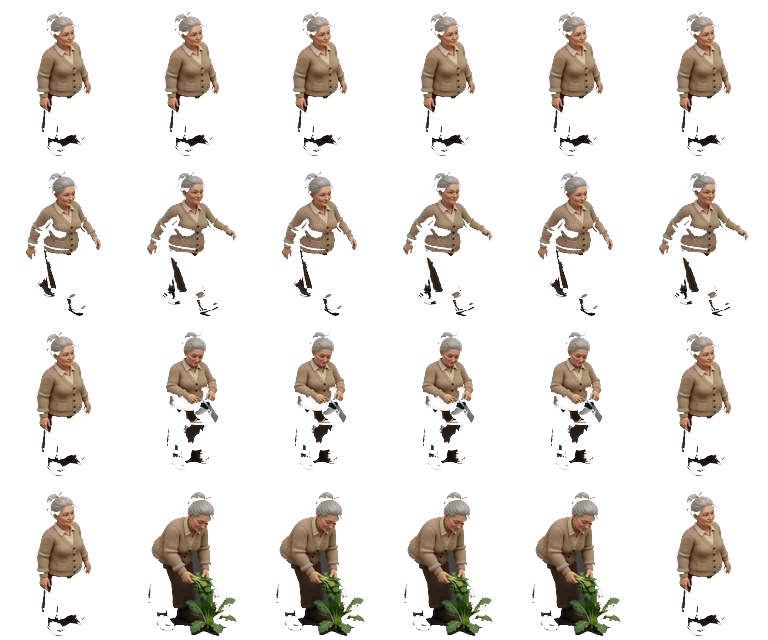
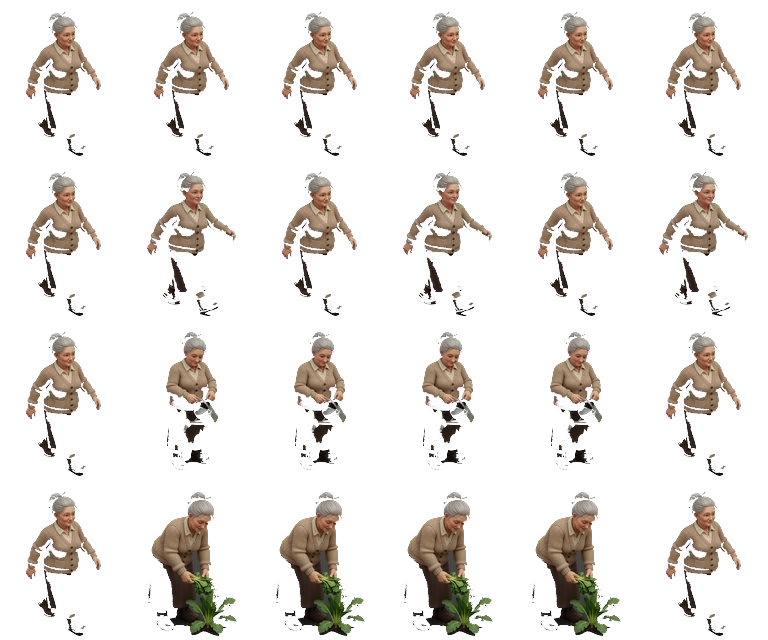
农场：待激活账号不进邻居世界/不发迎新礼包，积分面板改「待领取」口径，封顶时退还农场币

diff --git a/src/js/firebase-points.js b/src/js/firebase-points.js
@@ -35,10 +35,15 @@
   const BACKFILL_CAP = 100;
 
   // Limited-time "Welcome to the game" bonus for store members on their
-  // FIRST login to the farm. Awarded as 3,000 farm coins (equivalent to
-  // 300 EP via the 10:1 exchange, ≈ $0.30 real cost). Member-doc-scoped
-  // flag (gameSignupBonusGivenAt) prevents re-claim across devices and
-  // localStorage wipes.
+  // FIRST login to the farm. Awarded as 3,000 farm coins.
+  //
+  // 💰 成本（2026-08-20 订正，原注释写的 $0.30 **差了 10 倍**）：
+  //    3,000 农场币 → 10:1 兑换 → 300 超市积分。而 500 积分换「满$50 减$5」，
+  //    所以 1 积分 ≈ 面值 1 分钱 → 300 积分 ≈ **$3.00**，不是 $0.30。
+  //    定任何新奖励前都会引用这个换算，别再把它当 $0.30 用。
+  //
+  // Member-doc-scoped flag (gameSignupBonusGivenAt) prevents re-claim across
+  // devices and localStorage wipes.
   const GAME_SIGNUP_BONUS_COINS = 3000;
   const GAME_SIGNUP_BONUS_END = '2026-08-31';
 
@@ -137,7 +142,21 @@
         });
         _applyServerResponseToLocal(resp);
         _notePointsOutcome(0, true);
-        return { synced: true, eventId, new_balance: resp.new_balance };
+        // 待激活账号：把最新的待领取数额同步到本地 memberDoc，
+        // 否则积分面板显示的是上次拉取时的旧数。
+        if (resp.pending && Farm.fbAuth && Farm.fbAuth.memberDoc) {
+          Farm.fbAuth.memberDoc.pendingPoints = Number(resp.pendingPoints || 0);
+          if (resp.pendingCap) Farm.fbAuth.memberDoc.pendingCap = Number(resp.pendingCap);
+        }
+        /* credited 是**实际记上的分数**（待激活账号有总额封顶，可能少于请求值，
+           甚至是 0）。调用方靠它退还没换到分的那部分农场币 ——
+           照扣币不给分＝偷东西（spec 不变量 5）。
+           会员那条路不下发这个字段，undefined 时按「全额记上」处理，行为不变。 */
+        return {
+          synced: true, eventId, new_balance: resp.new_balance,
+          credited: (typeof resp.credited === 'number') ? resp.credited : amount,
+          pending: !!resp.pending,
+        };
       } catch (e) {
         _notePointsOutcome(e.code, false);
         // 429 = daily cap, 422 = validation, 401/403/404 = auth/endpoint → don't queue (would just fail again)
@@ -269,6 +288,18 @@
       const today = Farm.state.getDateString();
       if (today > GAME_SIGNUP_BONUS_END) return;
 
+      /* 🔒 **待激活账号不发**（2026-08-20）。他们是邮箱注册、还没到店激活的人：
+         正好满足开屏那句「登录 + 留邮箱」，不显式排除就是给从没来过店的人
+         每人白送 3000 币（面值 ≈$3，见 spec §5.6）。
+         ⚠ 靠「没有会员档所以事务返回 false」隐式挡住是不够的 —— 那是**静默**
+            不发，而开屏白纸黑字承诺过。承诺了不兑现又不解释，顾客只会觉得
+            这游戏骗人（本函数下面 no_email 那一段就是为这个写的）。
+            所以这里明说：激活之后就送。 */
+      if (Farm.fbAuth && Farm.fbAuth.memberDoc && Farm.fbAuth.memberDoc._pending) {
+        setTimeout(() => this._showBonusNeedsActivationModal(GAME_SIGNUP_BONUS_COINS), 600);
+        return;
+      }
+
       /* 🔒 必须用 memberDocId()，不是 Auth UID（2026-08-15 审阅第 7 条）
          店内会员文档 id 常常是 ru_*，与 Auth UID 不同 —— 拿 uid 去取文档多半不存在，
          事务直接返回 false，于是**真会员反而领不到**开屏承诺的 3000 农场币，
@@ -315,6 +346,26 @@
 
       // Short delay so any login modal closes first
       setTimeout(() => this._showSignupBonusModal(GAME_SIGNUP_BONUS_COINS), 400);
+    },
+
+    /* 待激活账号：礼包等激活。说清楚「什么时候能拿到」，不是一句「暂不可领」。
+       这一屏同时是把人推进店门的钩子 —— 他手里已经有个具体的东西在等他。 */
+    _showBonusNeedsActivationModal(amount) {
+      const en = Farm.state.data.language === 'en';
+      Farm.ui.showModal(`
+        <h2 class="modal-title">${en ? 'Your gift is waiting' : '礼包给你留着'}</h2>
+        <p style="text-align:center;font-size:15px;line-height:1.7;margin:14px 0;">
+          ${en
+            ? `Give us your phone number next time you shop and we'll set up your member card on the spot — <b>${amount.toLocaleString()} farm coins</b> and the store points you've earned land right away.`
+            : `下次来店里报一下手机号，收银员当场帮你办好会员卡 —— <b>${amount.toLocaleString()} 农场币</b>和你攒下的超市积分立刻到账。`}
+        </p>
+        <p style="text-align:center;font-size:12.5px;color:var(--warm-text-soft);line-height:1.6;">
+          133-412 Willowgrove Square<br>${en ? 'Mon–Sat 10am–6:30pm' : '周一至周六 10am–6:30pm'}
+        </p>
+        <button class="btn" style="width:100%;margin-top:14px;" onclick="Farm.ui.hideModal()">
+          ${en ? 'Got it' : '知道了'}
+        </button>
+      `);
     },
 
     /* 有资格但没留邮箱 —— 告诉他差一步，别静默不发。

diff --git a/src/js/farmer.js b/src/js/farmer.js
@@ -191,7 +191,49 @@
   }
 
   function plotPos(iso, plotIdx) {
-    return { gx: iso._plotGX(plotIdx) + 0.15, gy: iso._plotGY(plotIdx) + 0.35 };
+    const gx = iso._plotGX(plotIdx), gy = iso._plotGY(plotIdx);
+    const dirs = [[0, 1], [1, 1], [-1, 1], [1, 0], [-1, 0], [0, -1]];
+    for (let i = 0; i < dirs.length; i++) {
+      const x = gx + dirs[i][0], y = gy + dirs[i][1];
+      if (cellWalkable(iso, x, y)) return { gx: x, gy: y + 0.12 };
+    }
+    return { gx: gx + 0.2, gy: gy + 0.9 };
+  }
+
+  function enqueueWaterAll(startIdx) {
+    const iso = Farm.isoView;
+    if (!iso || (Farm.state && Farm.state._visitLock)) return false;
+    const plots = (Farm.state.data && Farm.state.data.plots) || [];
+    const wet = [];
+    for (let i = 0; i < plots.length; i++) {
+      if (plots[i] && Farm.tending && Farm.tending.canWater && Farm.tending.canWater(plots[i])) wet.push(i);
+    }
+    if (!wet.length) return false;
+    const dist = (a, b) => {
+      const dx = iso._plotGX(a) - iso._plotGX(b);
+      const dy = iso._plotGY(a) - iso._plotGY(b);
+      return dx * dx + dy * dy;
+    };
+    const left = wet.slice();
+    const order = [];
+    let cur = (startIdx != null && left.indexOf(startIdx) >= 0) ? startIdx : left[0];
+    while (left.length) {
+      const at = left.indexOf(cur);
+      if (at >= 0) left.splice(at, 1);
+      order.push(cur);
+      if (!left.length) break;
+      let best = left[0], bd = Infinity;
+      for (let k = 0; k < left.length; k++) {
+        const d = dist(cur, left[k]);
+        if (d < bd) { bd = d; best = left[k]; }
+      }
+      cur = best;
+    }
+    let n = 0;
+    for (let i = 0; i < order.length; i++) {
+      if (enqueue(order[i], 'water')) n++;
+    }
+    return n > 0;
   }
 
   function finishJob(iso) {
@@ -206,6 +248,9 @@
       if (Farm.farm && Farm.farm.harvestPlot) {
         const ev = iso._fakeEvt ? iso._fakeEvt(iso._plotGX(job.plotIdx), iso._plotGY(job.plotIdx)) : null;
         Farm.farm.harvestPlot(job.plotIdx, ev);
+      }
+      if (Farm.state && Farm.state.isWarehouseFull && Farm.state.isWarehouseFull()) {
+        A.queue = A.queue.filter((j) => j.kind !== 'harvest');
       }
     } else if (job.kind === 'water') {
       if (Farm.tending && Farm.tending.waterPlot) Farm.tending.waterPlot(job.plotIdx);
@@ -276,6 +321,8 @@
       const p = plotPos(iso, A.job.plotIdx);
       if (A.anim === 'walk') {
         if (moveToward(dt, p.gx, p.gy)) {
+          const pgx = iso._plotGX(A.job.plotIdx);
+          A.face = pgx >= A.gx ? 'r' : 'l';
           A.anim = A.job.kind;
           A.frameT = 0;
         }
@@ -317,7 +364,7 @@
     const im = sheet(look);
     const th = iso._th();
     const spec = specOf(look);
-    const h = th * (spec.child ? 1.15 : 1.55);
+    const h = th * (spec.child ? 1.45 : 2.05);
     if (im && im.width) {
       const cw = im.width / SHEET_COLS, ch = im.height / SHEET_ROWS;
       const row = ANIMS[anim] || 0;
@@ -408,6 +455,7 @@
     applyLook: applyLook,
     enqueue: enqueue,
     enqueueHarvestAll: enqueueHarvestAll,
+    enqueueWaterAll: enqueueWaterAll,
     tick: tick,
     depthDraw: depthDraw,
     drawGuest: drawGuest,

diff --git a/src/js/firebase-game-sync.js b/src/js/firebase-game-sync.js
@@ -90,6 +90,13 @@
         // can still browse the community (unlike visibleToNeighbors=false,
         // which also blinds the owner). Set via the owner toggle in settings.
         excludeFromRanking: !!(s.excludeFromRanking && Farm.fbAuth && Farm.fbAuth.isStoreOwner && Farm.fbAuth.isStoreOwner()),
+        /* 🔒 待激活账号（邮箱注册、还没到店激活）不进邻居世界（2026-08-20）。
+           串门/互偷/点赞的每日上限都是**按账号**算的，而邮箱注册没有成本 ——
+           一个人开五个小号刷自己的大号，几分钟的事。激活要报手机号，
+           手机号是有限的，那才是真正的闸。
+           取值口径与 excludeFromRanking 一样：写在公开档上，各处池子统一过滤。 */
+        pendingActivation: !!(Farm.fbAuth && Farm.fbAuth.memberDoc
+                              && Farm.fbAuth.memberDoc._pending),
         // Claimed limited-time promos (per-account guard against local reset).
         promoClaims: s.promoClaims || {},
         // Farm snapshot for real-member visits + stealing (spec 2026-06-11):
@@ -450,6 +457,7 @@
           if (d.id === meUid) return;
           if (stats.visibleToNeighbors === false) return;
           if (stats.excludeFromRanking === true) return;
+          if (stats.pendingActivation === true) return;   // 待激活账号不进邻居世界
           if (!stats.level) return;
           pool.push({ uid: d.id, doc: data });
         });
@@ -728,7 +736,8 @@
           const data = d.data();
           const stats = data.gameStats || {};
           if (stats.visibleToNeighbors === false) return;
-          if (stats.excludeFromRanking === true) return;  // store owner out of rankings
+          if (stats.excludeFromRanking === true) return;
+          if (stats.pendingActivation === true) return;   // 待激活账号不进邻居世界  // store owner out of rankings
           if (!stats.level) return;
           // Weekly board: only count players whose counter is for THIS week.
           if (metric === 'weekly') {
@@ -782,6 +791,7 @@
           const s = d.data().gameStats || {};
           if (s.visibleToNeighbors === false) return;
           if (s.excludeFromRanking === true) return;  // store owner not counted above me
+          if (s.pendingActivation === true) return;   // 待激活账号不参与排名
           if (metric === 'weekly' && s.weekId !== curWeek) return;
           above++;
         });

diff --git a/src/js/neighbors.js b/src/js/neighbors.js
@@ -204,6 +204,38 @@
       const visited = Farm.state.data.dailyClaims.neighborsVisited || [];
       const likesRemaining = Farm.fbGameSync ? Farm.fbGameSync.likesRemaining() : 0;
 
+      /* 🔒 待激活账号（邮箱注册、还没到店激活）先不开社交（2026-08-20）。
+         串门/互偷/点赞的每日上限都是按账号算的，而邮箱注册零成本 —— 一个人
+         开五个小号刷自己的大号是几分钟的事。激活要报手机号，那才是真的闸。
+         ⚠ 文案照实说「激活之后就能串门」，不是「无权限」。这是又一个把人
+            推进店门的理由，不是惩罚。 */
+      if (Farm.fbAuth && Farm.fbAuth.memberDoc && Farm.fbAuth.memberDoc._pending) {
+        const en = lang === 'en';
+        Farm.ui.showModal(`
+          <h2 class="modal-title">${en ? '🏘 Community' : '🏘 邻居广场'}</h2>
+          <div style="padding:20px 16px;text-align:center;">
+            <div style="font-size:44px;margin-bottom:12px;">🏡</div>
+            <div style="font-size:14.5px;line-height:1.7;color:var(--warm-text);margin-bottom:10px;">
+              ${en
+                ? 'Visiting neighbours opens up once your member card is set up.'
+                : '办好会员卡之后就能串门了。'}
+            </div>
+            <div style="font-size:12.5px;color:var(--warm-text-soft);line-height:1.65;margin-bottom:16px;">
+              ${en
+                ? 'Give us your phone number next time you shop — it takes a few seconds at the till, and the points you have earned land on your card at the same time.'
+                : '下次来店里报一下手机号，收银台几秒钟就好 —— 你攒的超市积分也会同时到账。'}
+            </div>
+            <div style="font-size:12px;color:var(--warm-text-soft);line-height:1.6;">
+              133-412 Willowgrove Square<br>${en ? 'Mon–Sat 10am–6:30pm' : '周一至周六 10am–6:30pm'}
+            </div>
+            <button class="btn" style="width:100%;margin-top:16px;" onclick="Farm.ui.hideModal()">
+              ${en ? 'Got it' : '知道了'}
+            </button>
+          </div>
+        `);
+        return;
+      }
+
       // Reciprocal privacy: if user opted out of being visible, they
       // also can't browse other neighbors (no lurking allowed).
       if (Farm.state.data.visibleToNeighbors === false) {

diff --git a/src/js/rewards.js b/src/js/rewards.js
@@ -33,7 +33,38 @@
       const ep = s.eastPoints;
       const coins = s.coins;
 
-      const balanceHTML = `
+      /* 🔒 待激活账号（邮箱注册、还没到店激活）的口径是「**待领取**」，
+         不是「你的超市积分」—— 他还不是会员，那些分还没进任何账户。
+         把没兑现的说成已有的，是这条设计里最容易失信的一处。
+         封顶数由后端下发（pendingCap），不在前端写死。 */
+      const pm = (Farm.fbAuth && Farm.fbAuth.memberDoc) || {};
+      const pending = !!pm._pending;
+      const pendPts = Number(pm.pendingPoints || 0);
+      const pendCap = Number(pm.pendingCap || 0);
+      const pendFull = pendCap > 0 && pendPts >= pendCap;
+
+      const balanceHTML = pending ? `
+        <div class="ep-overview">
+          <div class="ep-overview-balance">
+            <div class="ep-overview-label">${lang === 'en' ? 'Held for you' : '待领取'}</div>
+            <div class="ep-overview-value"><span class="points-icon"></span> ${pendPts.toLocaleString()}${pendCap ? ` / ${pendCap.toLocaleString()}` : ''}</div>
+            <div class="ep-overview-note">
+              ${pendFull
+                ? (lang === 'en'
+                    ? "That's the most we hold — come collect them"
+                    : '已经攒满了，到店就能领')
+                : (lang === 'en'
+                    ? 'Give us your phone in store and these land on your member card'
+                    : '到店报一下手机号，这些就到你的会员卡上')}
+            </div>
+            <div class="ep-overview-sync-note">
+              ${lang === 'en'
+                ? '133-412 Willowgrove Square · Mon–Sat 10am–6:30pm'
+                : '133-412 Willowgrove Square · 周一至周六 10am–6:30pm'}
+            </div>
+          </div>
+        </div>
+      ` : `
         <div class="ep-overview">
           <div class="ep-overview-balance">
             <div class="ep-overview-label">${lang === 'en' ? 'Your Store Points' : '您的超市积分'}</div>

diff --git a/src/js/state.js b/src/js/state.js
@@ -949,6 +949,27 @@
       // the coins so the player isn't charged for points they didn't get.
       if (result.sync && result.sync.then) {
         result.sync.then((res) => {
+          /* 待激活账号有**总额**封顶：服务端可能只记一部分（甚至 0），
+             而且是 **200 成功**返回，不走下面那条 429 分支。
+             不按实际记上的分退币的话，币扣了分没给 —— 就是偷东西
+             （spec 不变量 5，2026-08-20）。 */
+          if (res && res.synced && typeof res.credited === 'number' && res.credited < epAmount) {
+            const refund = (epAmount - res.credited) * 10;
+            if (refund > 0) {
+              this.data.coins += refund;
+              this.save();
+              if (window.Farm && Farm.ui && Farm.ui.refreshHUD) Farm.ui.refreshHUD();
+              const lg = this.data.language;
+              if (window.Farm && Farm.ui) {
+                Farm.ui.toast(res.credited === 0
+                  ? (lg === 'en' ? 'Points are already full — coins returned'
+                                 : '待领取积分已攒满，农场币已退回')
+                  : (lg === 'en' ? `Only ${res.credited} points fit — the rest of your coins are back`
+                                 : `只换进了 ${res.credited} 分，其余农场币已退回`), 3500);
+              }
+            }
+            return;
+          }
           if (res && res.rejected && res.code === 429) {
             this.data.coins += coinAmt;
             this.save();

diff --git a/service-worker.js b/service-worker.js
@@ -70,7 +70,7 @@ self.addEventListener('notificationclick', (event) => {
 
 // CACHE_VERSION 由 deploy.sh 在每次部署时自动注入时间戳（ef-YYMMDDHHMM），
 // 不再手动 +1 —— 忘 bump 会让全体 PWA 用户静默停在旧版（iOS 要删 App 才能救）。
-const CACHE_VERSION = 'ef-2608201419';
+const CACHE_VERSION = 'ef-2608201427';
 const CACHE = 'eastern-farm-' + CACHE_VERSION;
 // Precache the FULL app shell — HTML + CSS + every JS module + data JSON — so a SW
 // update (which clears the old cache) followed by a flaky mobile network can never leave

diff --git a/src/index.html b/src/index.html
@@ -6,7 +6,7 @@
 <meta name="theme-color" content="#fdf8ee">
 <!-- 部署构建号（deploy.sh 每次注入 CACHE_VERSION 时间戳）。SW 新鲜度守卫据此
      判断本页是否已过期（见页尾脚本）。ef-dev = 未部署的本地版本。 -->
-<meta name="ef-build" content="ef-2608201419">
+<meta name="ef-build" content="ef-2608201427">
 
 <!-- ==================== PWA (add to home screen) ==================== -->
 <link rel="manifest" href="manifest.webmanifest">

diff --git a/src/js/farm.js b/src/js/farm.js
@@ -225,6 +225,7 @@
       const waterBtn = document.getElementById('careWater');
       if (waterBtn) waterBtn.onclick = () => {
         Farm.ui.hideModal();
+        if (Farm.farmer && Farm.farmer.enqueueWaterAll) { Farm.farmer.enqueueWaterAll(plotIdx); return; }
         if (Farm.farmer && Farm.farmer.enqueue) { Farm.farmer.enqueue(plotIdx, 'water'); return; }
         if (Farm.tending) Farm.tending.waterPlot(plotIdx);
       };

diff --git a/src/worldcup.html b/src/worldcup.html
@@ -3,7 +3,7 @@
 <head>
 <meta charset="UTF-8">
 <meta name="viewport" content="width=device-width, initial-scale=1.0, viewport-fit=cover">
-<meta name="ef-build" content="ef-2608201419">
+<meta name="ef-build" content="ef-2608201427">
 <meta name="theme-color" content="#3a7d2c">
 
 <!-- ==================== PWA (add to home screen) ==================== -->

diff --git a/scripts/_sheet_farmers.py b/scripts/_sheet_farmers.py
@@ -14,7 +14,7 @@ CELL_W, CELL_H = 128, 160
 COLS, ROWS = 6, 4
 
 # look id -> session jpg numbers
-IDLE = {1: 222, 2: 206, 3: 220, 4: 209, 5: 217, 6: 218, 7: 223, 8: 219, 9: 221}
+IDLE = {1: 222, 2: 206, 3: 220, 4: 209, 5: 217, 6: 218, 7: 223, 8: 229, 9: 221}
 WALK_A = {1: 225, 2: 214, 3: 224, 4: 226, 5: 228, 6: 230, 7: 227, 8: 229, 9: 231}
 WALK_B = {1: 235, 2: 216, 3: 233, 4: 234, 5: 236, 6: 238, 7: 232, 8: 237, 9: 239}
 WATER = {1: 243, 2: 210, 3: 242, 4: 240, 5: 246, 6: 245, 7: 241, 8: 247, 9: 244}
